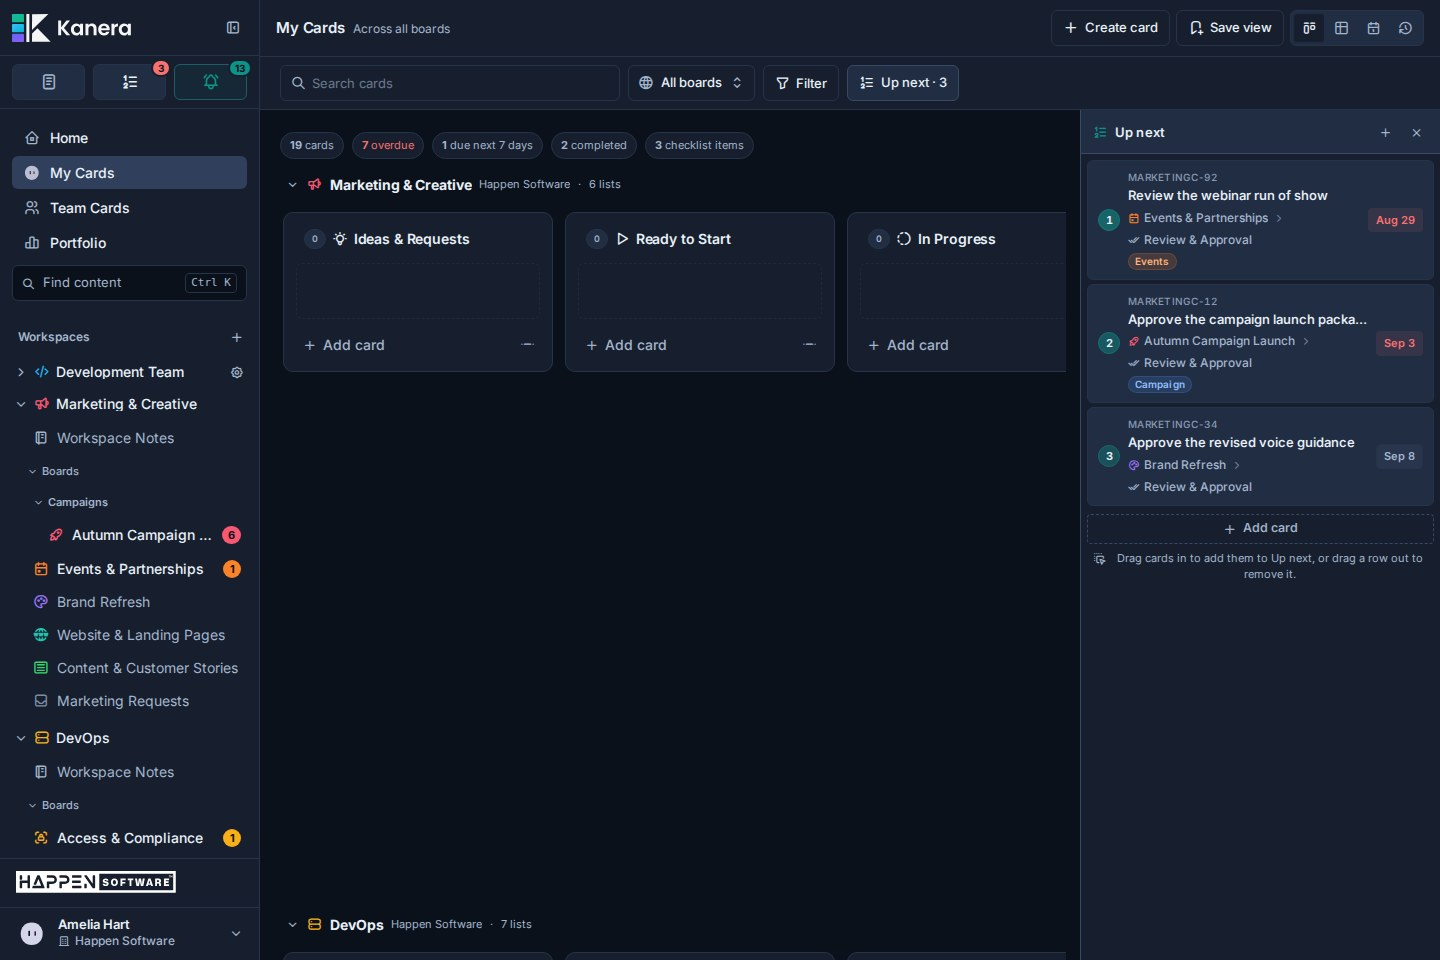
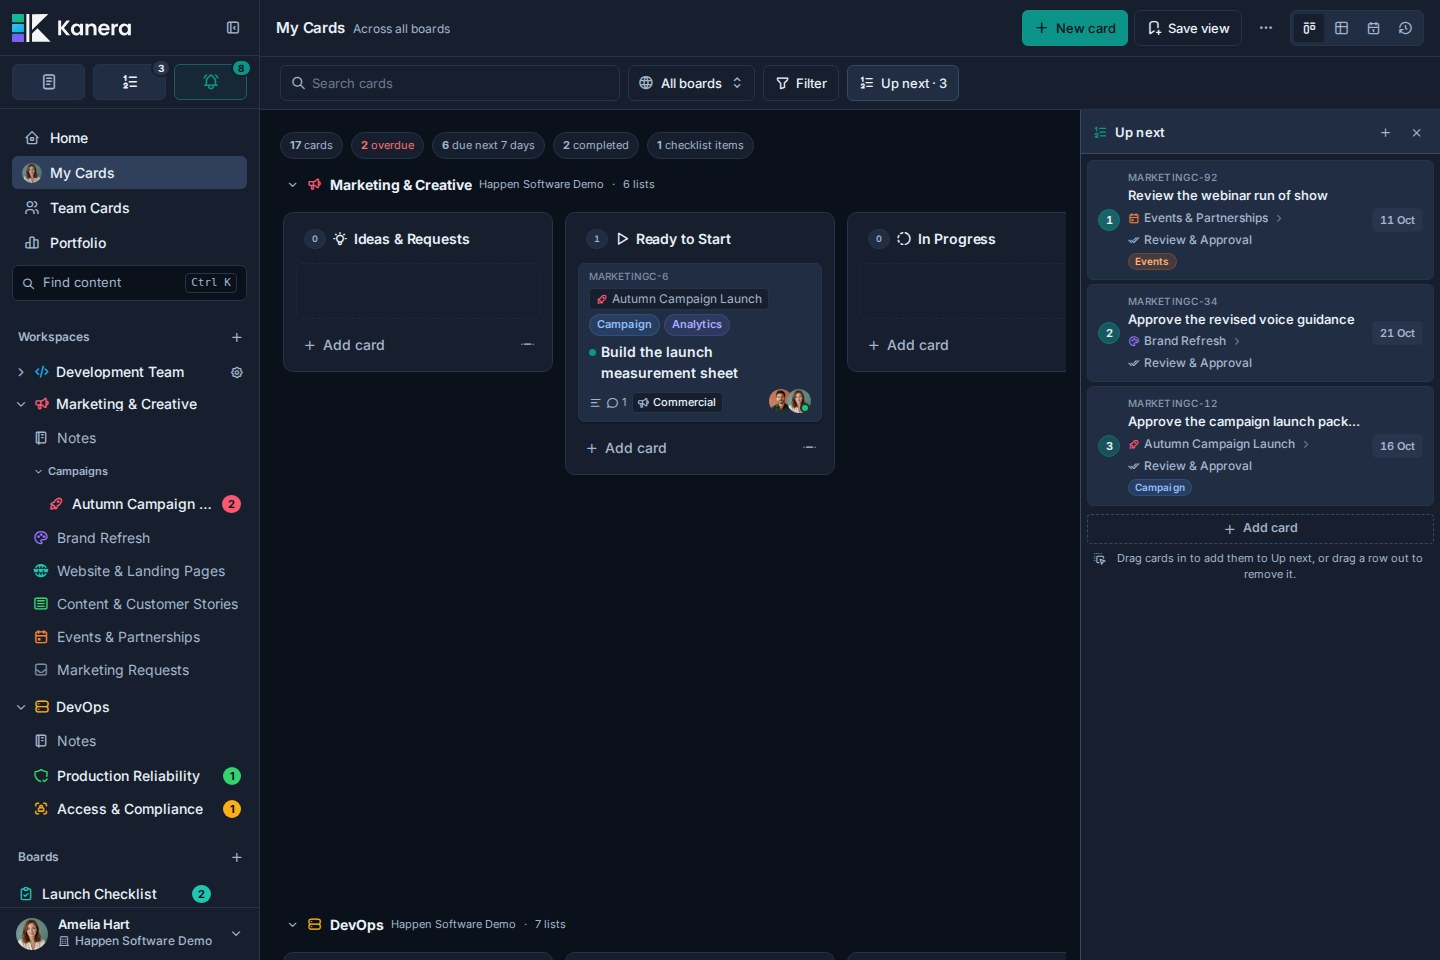
feat(menu): neaten hierarchy

diff --git a/apps/web/src/app/features/shell/app-shell.component.ts b/apps/web/src/app/features/shell/app-shell.component.ts
@@ -171,12 +171,6 @@ export class AppShellComponent implements OnInit, OnDestroy {
   readonly groups = signal<HomeGroup[]>([]);
   // Old offline shells have no kind; treating that as standard keeps their existing presentation.
   readonly standardGroups = computed(() => this.groups().filter((group) => (group.workspace as { kind?: string }).kind !== "board"));
-  /**
-   * The per-workspace "Boards" collapse toggle earns its row only when there is more than one
-   * workspace to collapse between. With a single workspace it was a repeated label pushing the
-   * boards themselves further down, so the group renders expanded with no subhead.
-   */
-  readonly showBoardsSubhead = computed(() => this.standardGroups().length > 1);
   readonly standaloneGroups = computed(() => this.groups().filter((group) => (group.workspace as { kind?: string }).kind === "board"));
   readonly guestGroups = signal<GuestHomeGroup[]>([]);
   readonly standaloneBoardGroups = signal<StandaloneBoardGroup[]>([]);
@@ -280,9 +274,6 @@ export class AppShellComponent implements OnInit, OnDestroy {
   readonly installGuideUrl = `${KANERA_DOCS_URL}/install-kanera`;
   // Tracks which workspaces are collapsed in the nav. Default empty (all expanded); persisted to localStorage.
   readonly collapsed = signal<Record<string, boolean>>(this.readCollapsed());
-  // Tracks which workspaces have their boards section collapsed.
-  // Default is empty (all expanded); value is persisted to localStorage.
-  readonly boardsCollapsed = signal<Record<string, boolean>>(this.readBoardsCollapsed());
   readonly boardGroupsCollapsed = signal<Record<string, boolean>>(this.readBoardGroupsCollapsed());
   readonly workspaceCount = computed(() => this.standardGroups().length);
   readonly ownBoardCount = computed(() =>
@@ -400,15 +391,6 @@ export class AppShellComponent implements OnInit, OnDestroy {
     const isMobileAgent = /Android|webOS|iPhone|iPad|iPod|BlackBerry|IEMobile|Opera Mini|Mobile/i.test(userAgent) || isAppleTouch;
     if (isMobileAgent) return null;
     return /Macintosh|Mac OS X/i.test(userAgent) ? "⌘K" : "Ctrl K";
-  }
-
-  private readBoardsCollapsed(): Record<string, boolean> {
-    try {
-      const raw = localStorage.getItem(this.orgStorageKey(STORAGE_KEYS.BOARDS_COLLAPSED));
-      return raw ? (JSON.parse(raw) as Record<string, boolean>) : {};
-    } catch {
-      return {};
-    }
   }
 
   private readBoardGroupsCollapsed(): Record<string, boolean> {
@@ -1233,14 +1215,6 @@ export class AppShellComponent implements OnInit, OnDestroy {
     this.collapsed.update((c) => {
       const next = { ...c, [workspaceId]: !c[workspaceId] };
       localStorage.setItem(this.orgStorageKey(STORAGE_KEYS.WORKSPACES_COLLAPSED), JSON.stringify(next));
-      return next;
-    });
-  }
-
-  toggleBoards(workspaceId: string) {
-    this.boardsCollapsed.update((c) => {
-      const next = { ...c, [workspaceId]: !c[workspaceId] };
-      localStorage.setItem(this.orgStorageKey(STORAGE_KEYS.BOARDS_COLLAPSED), JSON.stringify(next));
       return next;
     });
   }

diff --git a/apps/web/src/app/features/shell/app-shell.component.html b/apps/web/src/app/features/shell/app-shell.component.html
@@ -157,18 +157,13 @@
         <a class="board-link" [routerLink]="['/w', group.workspace.id, 'notes']" routerLinkActive="active"
           (contextmenu)="openNavContextMenu($event, { label: 'Workspace Notes', url: '/w/' + group.workspace.id + '/notes', canMarkAllRead: false, clearBoardSearch: false })">
           <i class="ti ti-notebook"></i>
-          <span class="nav-label">Workspace Notes</span>
+          <span class="nav-label">Notes</span>
         </a>
       </div>
       }
       <div class="ws-boards">
-        @if (!sidebarCollapsed() && group.boards.length > 0 && showBoardsSubhead()) {
-        <button class="ws-subhead-toggle" (click)="toggleBoards(group.workspace.id)" [attr.aria-expanded]="!!boardSearchTerm() || !boardsCollapsed()[group.workspace.id]">
-          <i [class]="!boardSearchTerm() && boardsCollapsed()[group.workspace.id] ? 'ti ti-chevron-right' : 'ti ti-chevron-down'"></i>
-          <span>Boards</span>
-        </button>
-        }
-        @if (sidebarCollapsed() || boardSearchTerm() || !showBoardsSubhead() || !boardsCollapsed()[group.workspace.id]) {
+        <!-- A workspace holds only Notes and boards, so boards sit directly under Notes with no
+             "Boards" subhead; the workspace row itself is the one collapse control. -->
         @if (sidebarCollapsed()) {
         <div class="nav-board-drop-list" cdkDropList [cdkDropListSortPredicate]="canSortNavBoard" [cdkDropListDisabled]="!canReorderBoards(group.workspace)" (cdkDropListDropped)="dropNavBoard($event, collapsedBoardLinks(group), group.workspace)">
           @for (board of collapsedBoardLinks(group); track board.id) {
@@ -232,7 +227,6 @@
           </a>
           }
         </div>
-        }
         }
         @if (group.boards.length === 0 && !sidebarCollapsed()) {
         <span class="board-empty">No boards yet</span>

diff --git a/apps/web/src/app/features/shell/app-shell.component.spec.ts b/apps/web/src/app/features/shell/app-shell.component.spec.ts
@@ -984,7 +984,7 @@ describe("AppShellComponent board search", () => {
     });
 
     const host = fixture.nativeElement as HTMLElement;
-    const controls = [".ws-toggle", ".ws-subhead-toggle", ".board-group-toggle"]
+    const controls = [".ws-toggle", ".board-group-toggle"]
       .map((selector) => host.querySelector<HTMLButtonElement>(selector)!);
     expect(controls.every((control) => getComputedStyle(control).height === "30px")).toBe(true);
   });
@@ -1288,7 +1288,6 @@ describe("AppShellComponent board search", () => {
   it("shows matching boards while workspace and board sections are collapsed", async () => {
     await render();
     component.collapsed.set({ "workspace-1": true });
-    component.boardsCollapsed.set({ "workspace-1": true });
     fixture.detectChanges();
 
     expect(text()).not.toContain("Roadmap");
@@ -1482,7 +1481,7 @@ describe("AppShellComponent board search", () => {
 
     const workspaceNotesLink =
       (fixture.nativeElement as HTMLElement).querySelector<HTMLAnchorElement>('a[href="/w/workspace-1/notes"]');
-    expect(workspaceNotesLink?.querySelector(".nav-label")?.textContent?.trim()).toBe("Workspace Notes");
+    expect(workspaceNotesLink?.querySelector(".nav-label")?.textContent?.trim()).toBe("Notes");
 
     for (const href of ["/my-cards", "/team-cards", "/portfolio", "/w/workspace-1/notes"]) {
       const link = (fixture.nativeElement as HTMLElement).querySelector<HTMLAnchorElement>(`a[href="${href}"]`);

diff --git a/apps/web/src/app/features/shell/app-shell.component.scss b/apps/web/src/app/features/shell/app-shell.component.scss
@@ -561,40 +561,6 @@ k-support-session-banner {
   padding: 2px 0 4px 22px;
 }
 
-.ws-subhead {
-  font-size: var(--text-xs);
-  font-weight: 500;
-  color: var(--text-muted);
-  padding: 4px 10px 2px;
-}
-
-.ws-subhead-toggle {
-  display: flex;
-  align-items: center;
-  justify-content: flex-start;
-  gap: 4px;
-  width: 100%;
-  padding: 4px 4px 2px;
-  background: transparent;
-  border: none;
-  border-radius: var(--radius);
-  font-size: var(--text-xs);
-  font-weight: 500;
-  color: var(--text-muted);
-  cursor: pointer;
-  text-align: left;
-
-  i {
-    font-size: var(--text-xs);
-    flex-shrink: 0;
-  }
-
-  &:hover {
-    background: var(--surface-2);
-    color: var(--nav-text-strong);
-  }
-}
-
 .board-nav-group {
   display: flex;
   flex-direction: column;
@@ -642,7 +608,6 @@ k-support-session-banner {
 // All sidebar disclosure rows share one hit-target height. Pointer focus should not leave a
 // disclosure looking selected after it toggles, while keyboard focus remains clearly visible.
 .ws-toggle,
-.ws-subhead-toggle,
 .board-group-toggle {
   height: 30px;
   min-height: 30px;
@@ -672,7 +637,6 @@ k-support-session-banner {
     background: transparent;
   }
 
-  .ws-subhead-toggle:hover,
   .board-group-toggle:hover {
     background: transparent;
     color: var(--text-muted);
